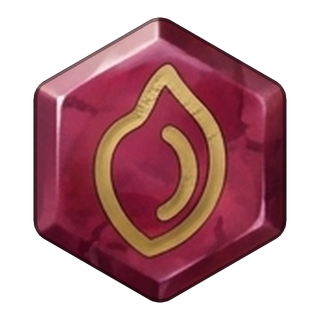
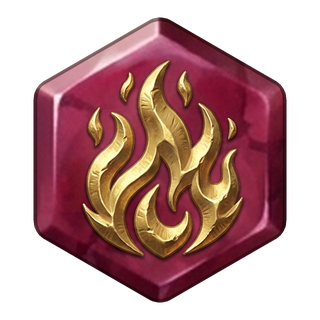
The relic devices sculpted: each set's emblem described for a carver and repainted as gold relief; chips show the gem
The painter had copied the line seals faithfully and the owner called
the symbols basic. Each set's device is now described in
relic_paint.SYMBOLS and repainted on its shipped stone as a gold
bas-relief, the stone itself as the reference so the gem stays; Chains
and Wards re-rolled once. Every set chip shows the painted gem, with
the name beside it; the loading screen's rule keeps the line wheel.

Claude-Session: https://claude.ai/code/session_01UWm8wBqgkvhU3PN6wHTkXq

Changed region(s): [[0.1562, 0.0938, 0.8438, 0.9062], [0.75, 0.25, 0.8438, 0.4375]]

diff --git a/Pantheon/UI/Collection/RelicInventoryView.swift b/Pantheon/UI/Collection/RelicInventoryView.swift
@@ -106,14 +106,25 @@ struct RelicIcon: View {
     }
 }
 
-/// A set's emblem alone, tinted, for chips and lists.
+/// A set's mark for chips and lists: the painted stone itself, small — the
+/// gem in the set's colour with its device — the way the genre's set
+/// filters show the rune. The line seal, tinted, only where a coloured gem
+/// would be wrong (`lineSeal`: the loading screen's gold rule) or in a
+/// bundle without the paintings. A device cut down to thirteen pixels was
+/// tried and is a blob; the line seal stays a glyph, and the gem's colour
+/// with the set's name beside it reads better than either (2026-09-14).
 struct RelicSetEmblem: View {
     let set: RelicSet
     var size: CGFloat = 12
     var tint: Color = Theme.gold
+    var lineSeal: Bool = false
 
     var body: some View {
-        if let image = BundleArt.image(set.emblemImageName) {
+        if !lineSeal, BundleArt.exists(set.stoneImageName) {
+            BundleImage(name: set.stoneImageName, renderedAt: size)
+                .aspectRatio(contentMode: .fit)
+                .frame(width: size, height: size)
+        } else if let image = BundleArt.image(set.emblemImageName) {
             Image(uiImage: image)
                 .renderingMode(.template)
                 .resizable()
@@ -2901,12 +2912,9 @@ struct RelicSetsSheet: View {
         let onUnit = unit.map { unit in unit.relics.filter { $0.set == relicSet }.count }
         let complete = (onUnit ?? 0) >= relicSet.piecesRequired
         return HStack(spacing: 8) {
-            ZStack {
-                Circle().fill(Color(hex: relicSet.stoneHex))
-                RelicSetEmblem(set: relicSet, size: 15, tint: Color(hex: "#F6DC8C"))
-            }
-            .frame(width: 26, height: 26)
-            .overlay(Circle().strokeBorder(complete ? Theme.gold : Theme.stroke, lineWidth: complete ? 1.5 : 0.5))
+            RelicSetEmblem(set: relicSet, size: 30)
+                .frame(width: 30, height: 30)
+                .shadow(color: Theme.gold.opacity(complete ? 0.8 : 0), radius: 4)
             VStack(alignment: .leading, spacing: 1) {
                 HStack(spacing: 5) {
                     Text(relicSet.displayName)

diff --git a/Pantheon/Core/Models/Relic.swift b/Pantheon/Core/Models/Relic.swift
@@ -99,6 +99,12 @@ enum RelicSet: String, Codable, CaseIterable, Identifiable, Sendable {
     /// by `tools/relic_art.py`, for chips and lists.
     var emblemImageName: String { "relic_emblem_\(rawValue)" }
 
+    /// The set's painted stone (`relic_<set>`, from `tools/relic_paint.py`):
+    /// the gem in the set's colour with its device sculpted in gold, which
+    /// is also the set's mark on every chip, the way the genre's set
+    /// filters show the rune itself.
+    var stoneImageName: String { "relic_\(rawValue)" }
+
     /// The stone's colour, as the art tool paints it, for the places that
     /// tint something by set (a glow behind the card). Kept in step with
     /// `SETS` in `tools/relic_art.py` by hand.
@@ -362,7 +368,7 @@ struct Relic: Codable, Equatable, Identifiable, Sendable {
     /// silhouette and the owner called the six shapes weird (2026-09-12) —
     /// so the slot is a number badge (`RelicIcon.showsSlot`) or the socket's
     /// place on the ring.
-    var stoneImageName: String { "relic_\(set.rawValue)" }
+    var stoneImageName: String { self.set.stoneImageName }
 
     /// The quality rim, a template the app tints with the quality's metal.
     static let rimImageName = "relic_rim"

diff --git a/Pantheon/App/RootView.swift b/Pantheon/App/RootView.swift
@@ -588,7 +588,7 @@ struct LaunchView: View {
             HStack(spacing: 10) {
                 LinearGradient(colors: [.clear, Theme.gold], startPoint: .leading, endPoint: .trailing)
                     .frame(width: 110, height: 1)
-                RelicSetEmblem(set: .fates, size: 14, tint: Theme.gold)
+                RelicSetEmblem(set: .fates, size: 14, tint: Theme.gold, lineSeal: true)
                 LinearGradient(colors: [Theme.gold, .clear], startPoint: .leading, endPoint: .trailing)
                     .frame(width: 110, height: 1)
             }

diff --git a/tools/relic_paint.py b/tools/relic_paint.py
@@ -65,6 +65,63 @@ PROMPT = (
 )
 
 
+# The sixteen devices, described for a sculptor. The first paintings copied
+# the line seals of `relic_art.emblem_strokes` faithfully and the owner
+# called the symbols "basic, as if drawn by a kid" (2026-09-14): the seals
+# were drawn for legibility at twelve points, and a painter handed a
+# stick figure paints a stick figure. Each set's subject is kept — the
+# aspis, the column, the torch — and given the detail a coin's device has.
+SYMBOLS = {
+    "fury": "a roaring flame with three curling tongues and embers rising from it",
+    "aegis": "a round Greek hoplite shield seen face on, a snarling gorgon's head as its boss, a laurel wreath around its rim",
+    "bulwark": "a Doric temple column with a fluted shaft, a carved capital and a stepped base, a fortress wall behind it",
+    "zephyr": "a single feathered wing sweeping to the right with three streaming wind lines behind it",
+    "thunder": "a jagged thunderbolt clasped in an eagle's talon, sparks at its tips",
+    "ruin": "two swords with ornate hilts crossed over a broken laurel wreath",
+    "oracle": "an all-seeing eye within a sunburst of rays, a teardrop of the Eye of Horus below it",
+    "wards": "a pentagonal amulet with a ring of small runes around it and a gem at its centre, engraved directly into the stone's face with the stone visible around it, not a coin and not a medallion",
+    "ichor": "an ornate two-handled chalice overflowing with the golden blood of the gods, three drops falling",
+    "wrath": "a triskelion of three spiralling arms with a burst of light at its centre",
+    "styx": "three cresting waves of the river of the dead with a ferryman's oar across them and a crescent moon above",
+    "chains": "three heavy chain links in a diagonal, the last one broken open, engraved directly into the stone's face with the stone visible around them, no plaque, no inner hexagon, no frame",
+    "fates": "an eight-spoked wheel of fate with a spindle and a thread wound through its rim",
+    "nemesis": "a balance scale whose beam is a sword, a feather in one pan and a heart in the other",
+    "titanfall": "a jagged mountain peak split by a lightning crack, a fallen crown at its foot",
+    "vigil": "an upright burning torch wrapped in a laurel vine, its flame leaning in a wind",
+}
+
+SYMBOL_PROMPT = (
+    "Keep this painted hexagonal gemstone exactly as it is: its pointy-top cut, its "
+    "colour, its facets and its gloss, on the same pure black background. REPLACE the "
+    "thin gold line symbol on its face with an ornate, richly detailed emblem of "
+    "{device}, sculpted as a gold bas-relief set into the stone: bevelled edges, fine "
+    "chiselled detail, bright highlights on the raised gold and deep shadow in the "
+    "recesses, like the device struck on an ancient coin, filling the central sixty "
+    "percent of the face, crisp and readable at small size, one emblem only. No glow, "
+    "no drop shadow, no lettering, nothing outside the stone"
+)
+
+
+def symbol_reference(name, path):
+    """The shipped painted stone, stood on black at the single's size, as the
+    reference for its emblem's repaint."""
+    stone = Image.open(OUT / f"relic_{name}.png").convert("RGBA")
+    size = int(SINGLE_CANVAS * 0.72)
+    stone = stone.resize((size, size), Image.LANCZOS)
+    img = Image.new("RGB", (SINGLE_CANVAS, SINGLE_CANVAS), (0, 0, 0))
+    img.paste(stone, ((SINGLE_CANVAS - size) // 2, (SINGLE_CANVAS - size) // 2), stone)
+    img.save(path)
+    print("wrote", path)
+
+
+def paint_symbol(name, reference_path, out_path):
+    cmd = [sys.executable, str(ROOT / "tools" / "genart.py"),
+           "--prompt", SYMBOL_PROMPT.format(device=SYMBOLS[name]),
+           "--ref", str(reference_path), "--out", str(out_path),
+           "--size", f"{SINGLE_CANVAS}x{SINGLE_CANVAS}", "--raw", str(Path(out_path).with_suffix(".raw.png"))]
+    subprocess.run(cmd, check=True)
+
+
 def names(single):
     return [single] if single else [s[0] for s in relic_art.SETS]
 
@@ -190,7 +247,14 @@ def main():
     ap.add_argument("--split", metavar="PAINTED", help="key, cut and fit a painted sheet")
     ap.add_argument("--sheet", metavar="JPG", help="with --split: the judging sheet at the app's sizes")
     ap.add_argument("--ship", action="store_true", help="with --split: write relic_<set>.png into the bundle")
+    ap.add_argument("--symbol-reference", metavar="PNG", help="with --single: the shipped stone on black, for its emblem's repaint")
+    ap.add_argument("--paint-symbol", nargs=2, metavar=("REF", "OUT"), help="with --single: ONE Gemini image repainting the emblem")
     args = ap.parse_args()
+
+    if args.symbol_reference:
+        symbol_reference(args.single, args.symbol_reference)
+    if args.paint_symbol:
+        paint_symbol(args.single, args.paint_symbol[0], args.paint_symbol[1])
 
     if args.reference:
         reference(args.reference, args.single)

diff --git a/CLAUDE.md b/CLAUDE.md
@@ -517,11 +517,26 @@ environment can and cannot do. The short version:
   the border), scaled it to cover the renderer's hexagon and clipped it to
   it, and shipped `relic_<set>.png` ×16 (1.6 MB) under the same names —
   so the tinted `relic_rim.png` still fits and nothing in Swift changed;
-  the emblems stay the line seals. Three images, 42 cents. The renders
-  (`python3 tools/relic_art.py --sheet x.jpg`, `--only fury,aegis`) are the
-  reference and the fallback: `--ship` writes the rim and the emblems
-  only, and `--ship --ship-stones` would put the renders back over the
-  paintings. **The
+  the emblems stay the line seals. Then the owner, of that sheet: "the symbols on
+  the relics look basic and shitty, as if they were drawn by a kid" — the
+  painter had copied the line seals faithfully. So each set's device was
+  DESCRIBED for a sculptor instead (`relic_paint.SYMBOLS`: a gorgon aspis,
+  a fluted column before a wall, a wing, a talon clasping a bolt, crossed
+  swords over a laurel, an eye in a sunburst, a rune amulet, an
+  overflowing chalice, a triskelion, waves with a ferryman's oar, broken
+  chain links, a wheel with its thread, a sword-beamed scale, a split
+  peak with a fallen crown, a laurelled torch) and repainted on each
+  shipped stone as a gold bas-relief (`--single X --symbol-reference`
+  then `--paint-symbol`, the stone itself as the reference so the gem
+  stays; Chains and Wards re-rolled once when a plaque and a coin
+  swallowed the stone). Twenty-one images in all, about $2.95. The chips
+  show the painted gem itself (`RelicSetEmblem`, `RelicSet.stoneImageName`,
+  the name beside it everywhere; `lineSeal: true` keeps the tinted line
+  seal for the loading screen's gold rule): a device cut down to thirteen
+  pixels was tried and is a blob. The renders (`python3 tools/relic_art.py
+  --sheet x.jpg`, `--only fury,aegis`) are the reference and the fallback:
+  `--ship` writes the rim and the emblems only, and `--ship --ship-stones`
+  would put the renders back over the paintings. **The
   inventory is the genre's grid** (2026-09-12, evening): the stones at
   38 pt, eight a row, ONE panel at the right for the relic tapped (name,
   quality, main, subs, set, fit, wearer; Open, Equip on…/Change, Lock,

diff --git a/Docs/PLAN.md b/Docs/PLAN.md
@@ -1944,3 +1944,29 @@ on the same sheet as the renders at the app's four sizes before shipping.
 was left as it was: the chips are read beside the stones, not matched to
 them, and a median measured off a faceted painting is the colour of its
 shadows. The bundle grew 0.6 MB.
+
+### The devices, after "as if they were drawn by a kid" (2026-09-14)
+
+The owner sent the painted sheet back: "the symbols on the relics look
+basic and shitty, as if they were drawn by a kid." True, and the cause was
+mine: the seals were line drawings made for legibility at twelve points,
+and a painter handed a stick figure paints a stick figure in gold. What the
+genre's rune symbols are is sculpture — a device with mass, light and
+shadow, like the face of a coin. So the fix was not a better drawing to
+copy but a description to sculpt from: each set's subject kept and
+written for a carver (`relic_paint.SYMBOLS`), and the shipped painted
+stone given back as the reference with "keep the gem, replace the line
+symbol with an ornate gold bas-relief of X". Fury was tested first and
+came back a three-tongued flame in relief on the ruby; the other fifteen
+followed in three lanes; Chains (a plaque that swallowed the stone) and
+Wards (a coin that read like Aegis's medallion at thirty points) were
+re-rolled once with "engraved directly into the face, no plaque, no coin".
+Eighteen images, about $2.50, on top of the three before.
+
+The chips could not follow the same road: cutting a device down to a
+thirteen-pixel template makes a blob where the line seal stays a glyph
+(measured on a sheet at 13, 16, 24 and 40 pixels). So the chips show the
+painted gem itself, small, with the set's name beside it everywhere a chip
+appears — the rail's count, the sets row, the map's YIELDS, the filter,
+the reference — which is how the genre's set filters show the rune. The
+loading screen's gold rule keeps the tinted line wheel (`lineSeal`).
